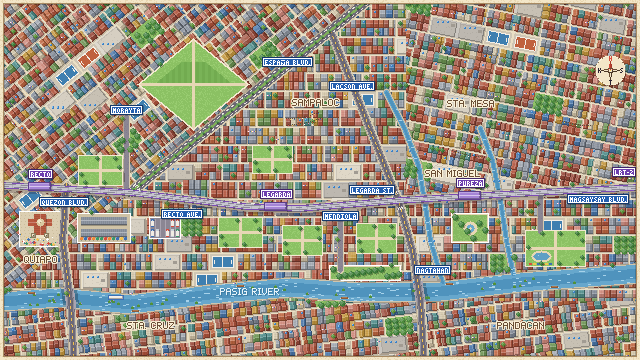
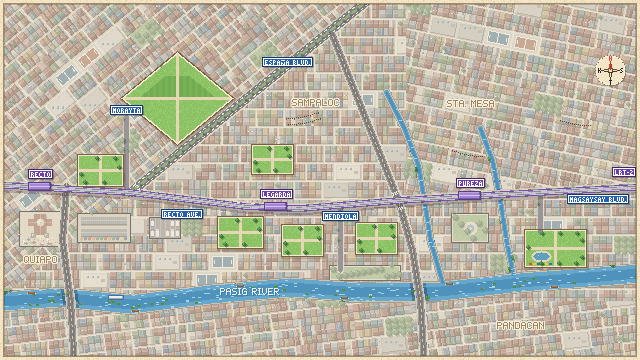
H4: calmer campus map with clearer stops
- Paper wash over the city, fewer labels and night lights, framed campus grounds
- Larger rimmed pins (slate for soon), one signboard per stop with a red SOON tag,
  pulsing gold ring on the playable campus; UST pin clears the HUD

diff --git a/src/scenes/CampusMapScene.ts b/src/scenes/CampusMapScene.ts
@@ -4,7 +4,7 @@
  * street signs), the time-of-day tint with night lights (map_lights), ambient life (an LRT-2 train every
  * 20–30 s, jeepneys, tricycles and cars on the avenues, a river ferry, drifting water hyacinth, sparkles on
  * the water, cloud shadows, birds), the 7 campus buildings with pins (PUP playable with its progress and
- * sticker mark, the rest a "SOON" tarpaulin), the player's jeepney, the HUD, the campus card, the list view
+ * sticker mark and a pulsing gold ring, the rest a "SOON" tag on their signboard), the player's jeepney, the HUD, the campus card, the list view
  * and the jeepney ride into the minigame. Tapping a stop zooms the world camera 10% toward it; a second,
  * fixed camera draws the UI so the HUD never zooms. Arriving from the landing, the map unfolds (0.92 → 1).
  * Listens to: pointer (taps, hover glow, list drag), mouse wheel (list), keyboard (arrows move between
@@ -431,7 +431,7 @@ export class CampusMapScene extends Phaser.Scene {
       }
 
       // Tap target: the building and its pin. Hover grows the pin and lights the ground (§4.2).
-      const zoneH = building.height + 24;
+      const zoneH = building.height + 34;
       const zone = this.add
         .zone(entry.x, baseY - zoneH / 2 + 2, Math.max(36, building.width), zoneH)
         .setDepth(DEPTH.stopUi)
@@ -446,22 +446,66 @@ export class CampusMapScene extends Phaser.Scene {
         glow.setFillStyle(PALETTE.glow, 0);
       });
 
-      // Campus name on a yellow signboard below.
+      // One signboard per stop (owner, H4): the playable campus on a yellow board in red,
+      // the rest on a cream board with a red "SOON" tag.
       const label = this.add
-        .text(entry.x, baseY + 9, entry.campus, textStyle(8))
+        .text(entry.x, baseY + 10, entry.campus, textStyle(8, playable ? TEXT.red : TEXT.ink))
         .setOrigin(0.5)
         .setDepth(DEPTH.stopUi + 0.1);
+      let signW = label.width + 12;
+      if (!playable) {
+        const soon = this.add
+          .text(0, baseY + 10, t('map.soon'), textStyle(8, TEXT.cream))
+          .setOrigin(0.5)
+          .setDepth(DEPTH.stopUi + 0.2);
+        const tagW = soon.width + 6;
+        signW = label.width + tagW + 14;
+        const left = entry.x - signW / 2;
+        label.setX(left + 6 + label.width / 2);
+        const tagX = left + signW - 4 - tagW / 2;
+        soon.setX(tagX);
+        this.add
+          .rectangle(tagX, baseY + 10, tagW, 9, COLORS.red)
+          .setStrokeStyle(1, COLORS.ink)
+          .setDepth(DEPTH.stopUi + 0.15);
+      }
       this.add
-        .nineslice(entry.x, baseY + 9, 'ui_board', undefined, label.width + 10, 13, 6, 6, 6, 6)
+        .nineslice(
+          entry.x,
+          baseY + 10,
+          playable ? 'ui_board' : 'ui_panel',
+          undefined,
+          signW,
+          15,
+          6,
+          6,
+          6,
+          6,
+        )
         .setDepth(DEPTH.stopUi);
 
       if (playable) {
+        // A gold ring pulses around the playable campus so it is found at a glance.
+        if (!this.reduced) {
+          const ring = this.add
+            .ellipse(entry.x, baseY - 2, building.width + 16, 20)
+            .setStrokeStyle(2, PALETTE.gold)
+            .setDepth(DEPTH.glow);
+          this.tweens.add({
+            targets: ring,
+            scale: 1.25,
+            alpha: 0,
+            duration: 1400,
+            repeat: -1,
+            ease: 'Sine.easeOut',
+          });
+        }
         const s = summaryFor(entry.id, save);
         if (s.pin) {
           this.add
             .text(
               entry.x,
-              baseY + 21,
+              baseY + 23,
               t(s.pin.key, s.pin.params),
               textStyle(8, TEXT.ink, { backgroundColor: '#FFF4DC', padding: { x: 2, y: 0 } }),
             )
@@ -470,18 +514,10 @@ export class CampusMapScene extends Phaser.Scene {
         }
         if (save.stickers.includes(entry.stickerId)) {
           this.add
-            .star(entry.x + 9, top - 16, 5, 3, 6, PALETTE.gold)
+            .star(entry.x + 11, top - 22, 5, 3, 6, PALETTE.gold)
             .setStrokeStyle(1, COLORS.ink)
             .setDepth(DEPTH.stopUi + 0.2);
         }
-      } else {
-        // A "SOON" tarpaulin hung on the building, Pinoy style.
-        const ty = baseY - 9;
-        this.add.image(entry.x, ty, 'tarp_soon').setDepth(DEPTH.stopUi);
-        this.add
-          .text(entry.x, ty, t('map.soon'), textStyle(8, TEXT.red))
-          .setOrigin(0.5)
-          .setDepth(DEPTH.stopUi + 0.1);
       }
     }
     this.moveHighlight();

diff --git a/src/minigames/roster.ts b/src/minigames/roster.ts
@@ -25,8 +25,8 @@ export const ROSTER: readonly RosterEntry[] = [
     campus: 'UST',
     area: 'España',
     stop: 1,
-    x: 193,
-    y: 84,
+    x: 177,
+    y: 98,
     status: 'soon',
     stickerId: 'sticker-ust',
   },
@@ -111,7 +111,7 @@ export function entryAtStop(stop: number): RosterEntry {
  * campus plots in src/map/mapGeometry.json (the baked map, H4).
  */
 export const ROUTE_NODES: readonly RouteNode[] = [
-  { x: 193, y: 84, stop: 1 },
+  { x: 177, y: 98, stop: 1 },
   { x: 170, y: 140 },
   { x: 100, y: 170, stop: 2 },
   { x: 180, y: 176 },

diff --git a/tests/unit/art/packs.test.ts b/tests/unit/art/packs.test.ts
@@ -66,7 +66,6 @@ describe('baked art packs (scripts/art, DECISIONS R-006)', () => {
       'map_ubelt',
       'map_lights',
       'map_pin',
-      'tarp_soon',
       'map_jeep',
       'map_train',
       'map_mini',

diff --git a/DECISIONS.md b/DECISIONS.md
@@ -285,3 +285,10 @@ Specs: [SPEC.md](SPEC.md) (§), [SPEC-homepage.md](SPEC-homepage.md) (H§), [SPE
 - **D-047 — Owner changes to the map.** Campuses that are not playable show only "Coming soon!" (no game title, tagline or
   teaser) in the list and on the campus card; the map pin keeps a "SOON" tarpaulin hung on the building. The School ID
   chip on the map only shows the player; the character is changed from the landing's ID chip.
+- **D-048 — Calmer map, louder stops (owner: "too confusing").** The city fabric gets a paper wash (50% toward
+  `#efe5cf`, 45% desaturated; roads 15%) so campuses, avenues, the LRT-2 and the river read first; each campus ground
+  has a dark frame and drop shadow. Fewer labels (España, Recto, Morayta, Mendiola, Magsaysay, the three stations and
+  four area names, now in a lighter brown) and sparser night lights. Pins are larger (22×30) with a cream rim; soon
+  pins are slate blue, not grey. Each stop has one signboard: PUP in red on the yellow board with a pulsing gold ring
+  (none with Reduced Motion); the others on a cream board with a red "SOON" tag (the tarpaulin is gone). UST moved to
+  (177,98) along España so its pin clears the HUD.
